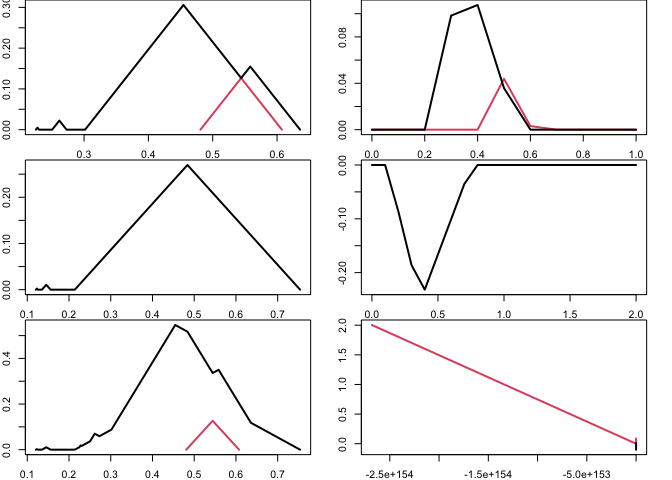
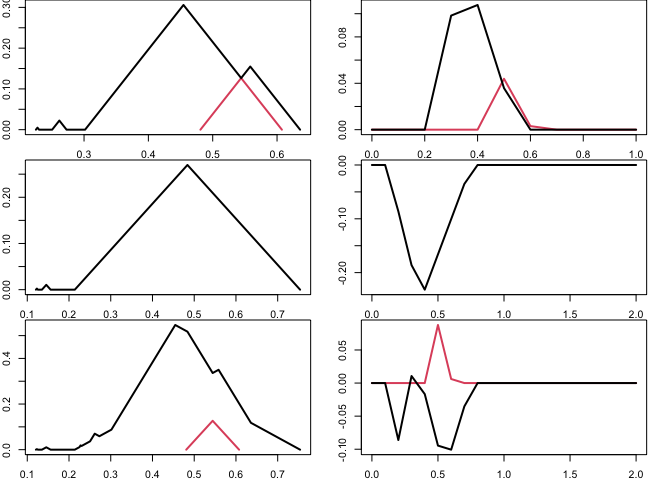
refactor addDiscreteLandscapes to call delimitDiscreteLandscapes

diff --git a/src/PersistenceLandscape.h b/src/PersistenceLandscape.h
@@ -340,7 +340,7 @@ public:
       const PersistenceLandscape &pl1,
       const PersistenceLandscape &pl2
   );
-  
+
   // friend PersistenceLandscape operator*(
   //     const PersistenceLandscape &first,
   //     double con) {
@@ -897,7 +897,7 @@ PersistenceLandscape delimitDiscreteLandscape(
     warning("Cannot delimit a discrete PL with a different resolution.");
   // ensure that new limits contain support
   std::pair<double, double> supp = pl.support();
-  if (min_x > supp.first || max_x < supp.second)
+  if (min_x > supp.first + epsi || max_x < supp.second - epsi)
     stop("Cannot delimit to a domain that contains not the support.");
   // ensure that new minimum is almost on the grid
   if (
@@ -1114,13 +1114,9 @@ PersistenceLandscape operateExactLandscapes(
   return pl_op;
 }
 
-// REVIEW: Assume only that the `dx` are equal and that they divide the
-// difference between the `min_x`. -JCB
-// NOTE: Follows the convention of using the first PL's `dx` in the result.
-// TODO: Add paragraph about safety conventions to documentation.
 PersistenceLandscape addDiscreteLandscapes(
-    const PersistenceLandscape &pl1,
-    const PersistenceLandscape &pl2
+  const PersistenceLandscape &pl1,
+  const PersistenceLandscape &pl2
 ) {
   if (pl1.exact || pl2.exact)
     stop("`addDiscreteLandscapes()` requires two discrete PLs.");
@@ -1134,72 +1130,40 @@ PersistenceLandscape addDiscreteLandscapes(
   pl_sum.dx = pl1.dx;
   std::vector<std::vector<std::pair<double, double>>> land_sum;
   
-  // insert sums of shared levels
-  int min_level = std::min(pl1.land.size(), pl2.land.size());
+  // delimit summands
+  PersistenceLandscape summand1 = 
+    delimitDiscreteLandscape(pl1, pl_sum.min_x, pl_sum.max_x, pl_sum.dx);
+  PersistenceLandscape summand2 = 
+    delimitDiscreteLandscape(pl2, pl_sum.min_x, pl_sum.max_x, pl_sum.dx);
+  // this check should apply to all levels of discrete landscapes
+  if (summand1.land[0].size() != summand1.land[0].size())
+    stop("Delimited landscapes lie on different grids.");
+  
+  int min_level = std::min(summand1.land.size(), summand2.land.size());
+  int min_index = summand1.land[0].size();
+  
+  // insert sums of levels
   for (int i = 0; i < min_level; i++) {
     
     std::vector<std::pair<double, double>> level_sum;
-    
-    double lead_x = pl1.land[i][0].first - pl2.land[i][0].first;
-    double lag_x = pl1.land[i][pl1.land[i].size() - 1].first -
-      pl2.land[i][pl2.land[i].size() - 1].first;
-    int lead_index = std::round(lead_x / pl1.dx);
-    int lag_index = std::round(lag_x / pl1.dx);
-    
-    // insert preceding indices from whichever landscape has them
-    if (lead_index < 0) {
-      // `pl1` begins first
-      for (int j = 0; j < -lead_index; j++) {
-        level_sum.push_back(pl1.land[i][j]);
-      }
-    } else if (lead_index > 0) {
-      // `pl2` begins first
-      for (int j = 0; j < lead_index; j++) {
-        level_sum.push_back(std::make_pair(
-            pl1.land[i][0].first - (lead_index - j) * pl1.dx,
-            // pl2.land[i][j].first,
-            pl2.land[i][j].second
-        ));
-      }
-    }
-    
-    // insert sums of shared indices
-    int min_index = std::max(0, lead_index);
-    int max_index = std::min(pl1.land[i].size() + lead_index,
-                             pl2.land[i].size());
-    for (int j = min_index; j < max_index; j++) {
+    for (int j = 0; j < min_index; j++) {
+      
       level_sum.push_back(std::make_pair(
-          pl1.land[i][j - lead_index].first,
-          // pl2.land[i][j].first,
-          pl1.land[i][j - lead_index].second + pl2.land[i][j].second
+          summand1.land[i][j].first,
+          // summand2.land[i][j].first,
+          summand1.land[i][j].second + summand2.land[i][j].second
       ));
-    }
-    
-    // insert succeeding indices from whichever landscape has them
-    if (lag_index < 0) {
-      // `pl1` ends first
-      for (int j = 0; j < pl2.land[i].size() - max_index; j++) {
-        level_sum.push_back(std::make_pair(
-            pl1.land[i][pl1.land[i].size() - 1].first + (1 + j) * pl1.dx,
-            // pl2.land[i][max_index + j].first,
-            pl2.land[i][max_index + j].second
-        ));
-      }
-    } else if (lag_index > 0) {
-      // `pl2` ends first
-      for (int j = max_index - lead_index; j < pl1.land[i].size(); j++) {
-        level_sum.push_back(pl1.land[i][j]);
-      }
+      
     }
     
     land_sum.push_back(level_sum);
   }
   
   // insert succeeding levels from whichever landscape has them
-  for (; min_level < pl1.land.size(); min_level++)
-    land_sum.push_back(pl1.land[min_level]);
-  for (; min_level < pl2.land.size(); min_level++)
-    land_sum.push_back(pl2.land[min_level]);
+  for (; min_level < summand1.land.size(); min_level++)
+    land_sum.push_back(summand1.land[min_level]);
+  for (; min_level < summand2.land.size(); min_level++)
+    land_sum.push_back(summand2.land[min_level]);
   
   pl_sum.land = land_sum;
   return pl_sum;

diff --git a/sandbox/addDiscreteLandscapes.h b/sandbox/addDiscreteLandscapes.h
@@ -1,0 +1,98 @@
+
+friend PersistenceLandscape addDiscreteLandscapes2(
+  const PersistenceLandscape &pl1,
+  const PersistenceLandscape &pl2
+);
+
+// REVIEW: Assume only that the `dx` are equal and that they divide the
+// difference between the `min_x`. -JCB
+// NOTE: Follows the convention of using the first PL's `dx` in the result.
+// TODO: Add paragraph about safety conventions to documentation.
+// FIXME: This function introduces `INT_MIN` & `INT_MAX` into ordinates.
+// TODO: Probably best to make & use a separate function to delimit summands.
+PersistenceLandscape addDiscreteLandscapes2(
+    const PersistenceLandscape &pl1,
+    const PersistenceLandscape &pl2
+) {
+  if (pl1.exact || pl2.exact)
+    stop("`addDiscreteLandscapes()` requires two discrete PLs.");
+  if (! almostEqual(pl1.dx, pl2.dx))
+    stop("`addDiscreteLandscapes()` requires PLs with same `dx`.");
+  
+  PersistenceLandscape pl_sum;
+  pl_sum.exact = false;
+  pl_sum.min_x = min(pl1.min_x, pl2.min_x);
+  pl_sum.max_x = max(pl1.max_x, pl2.max_x);
+  pl_sum.dx = pl1.dx;
+  std::vector<std::vector<std::pair<double, double>>> land_sum;
+  
+  // insert sums of shared levels
+  int min_level = std::min(pl1.land.size(), pl2.land.size());
+  for (int i = 0; i < min_level; i++) {
+    
+    std::vector<std::pair<double, double>> level_sum;
+    
+    double lead_x = pl1.land[i][0].first - pl2.land[i][0].first;
+    double lag_x = pl1.land[i][pl1.land[i].size() - 1].first -
+      pl2.land[i][pl2.land[i].size() - 1].first;
+    int lead_index = std::round(lead_x / pl1.dx);
+    int lag_index = std::round(lag_x / pl1.dx);
+    
+    // insert preceding indices from whichever landscape has them
+    if (lead_index < 0) {
+      // `pl1` begins first
+      for (int j = 0; j < -lead_index; j++) {
+        level_sum.push_back(pl1.land[i][j]);
+      }
+    } else if (lead_index > 0) {
+      // `pl2` begins first
+      for (int j = 0; j < lead_index; j++) {
+        level_sum.push_back(std::make_pair(
+            pl1.land[i][0].first - (lead_index - j) * pl1.dx,
+            // pl2.land[i][j].first,
+            pl2.land[i][j].second
+        ));
+      }
+    }
+    
+    // insert sums of shared indices
+    int min_index = std::max(0, lead_index);
+    int max_index = std::min(pl1.land[i].size() + lead_index,
+                             pl2.land[i].size());
+    for (int j = min_index; j < max_index; j++) {
+      level_sum.push_back(std::make_pair(
+          pl1.land[i][j - lead_index].first,
+          // pl2.land[i][j].first,
+          pl1.land[i][j - lead_index].second + pl2.land[i][j].second
+      ));
+    }
+    
+    // insert succeeding indices from whichever landscape has them
+    if (lag_index < 0) {
+      // `pl1` ends first
+      for (int j = 0; j < pl2.land[i].size() - max_index; j++) {
+        level_sum.push_back(std::make_pair(
+            pl1.land[i][pl1.land[i].size() - 1].first + (1 + j) * pl1.dx,
+            // pl2.land[i][max_index + j].first,
+            pl2.land[i][max_index + j].second
+        ));
+      }
+    } else if (lag_index > 0) {
+      // `pl2` ends first
+      for (int j = max_index - lead_index; j < pl1.land[i].size(); j++) {
+        level_sum.push_back(pl1.land[i][j]);
+      }
+    }
+    
+    land_sum.push_back(level_sum);
+  }
+  
+  // insert succeeding levels from whichever landscape has them
+  for (; min_level < pl1.land.size(); min_level++)
+    land_sum.push_back(pl1.land[min_level]);
+  for (; min_level < pl2.land.size(); min_level++)
+    land_sum.push_back(pl2.land[min_level]);
+  
+  pl_sum.land = land_sum;
+  return pl_sum;
+}
